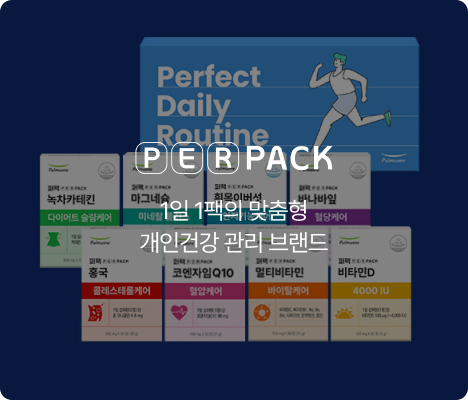
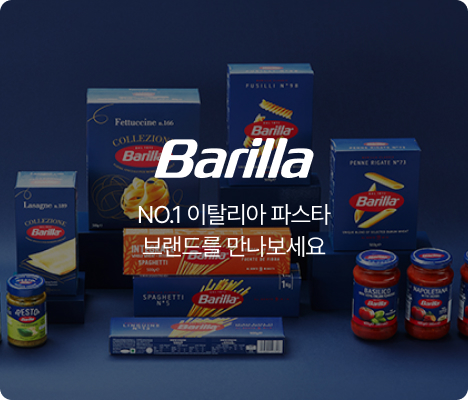
Center four brand hero captions and swap Barilla and PERPACK image assets

diff --git a/shoppulmuone/brand.html b/shoppulmuone/brand.html
@@ -1,4 +1,4 @@
-<!DOCTYPE html><html lang="ko"><head><meta charset="UTF-8"><meta name="viewport" content="width=device-width, initial-scale=1.0"><title>브랜드 | 샵풀무원 리뉴얼</title><link rel="stylesheet" href="../css/default.css"><link rel="stylesheet" href="../font/css/pretendardvariable.css"><link rel="stylesheet" href="css/variables.css"><link rel="stylesheet" href="css/main.css?v=20261126-css-header-hover"><link rel="stylesheet" href="css/brand.css?v=20261126-logo-align"><script src="js/category-links.js?v=3" defer></script><script src="js/scroll-header.js?v=20261126-css-header-hover" defer></script>
+<!DOCTYPE html><html lang="ko"><head><meta charset="UTF-8"><meta name="viewport" content="width=device-width, initial-scale=1.0"><title>브랜드 | 샵풀무원 리뉴얼</title><link rel="stylesheet" href="../css/default.css"><link rel="stylesheet" href="../font/css/pretendardvariable.css"><link rel="stylesheet" href="css/variables.css"><link rel="stylesheet" href="css/main.css?v=20261126-css-header-hover"><link rel="stylesheet" href="css/brand.css?v=20261126-copy-center"><script src="js/category-links.js?v=3" defer></script><script src="js/scroll-header.js?v=20261126-css-header-hover" defer></script>
 
 <script src="js/brand.js?v=20261126-logo-align" defer></script></head><body><div id="wrap"><header class="site-header">
             <div class="header-inner">
@@ -90,12 +90,12 @@
                 <li class="brand-gallery-card"><a href="brand.html?brand=6" aria-label="풀스키친 브랜드 보기"><img src="img/pulmuonebrand_6.jpg" alt="풀스키친" width="468" height="400" decoding="async"></a></li>
                 <li class="brand-gallery-card"><a href="brand.html?brand=7" aria-label="풀스키즈 브랜드 보기"><img src="img/pulmuonebrand_7.jpg" alt="풀스키즈" width="468" height="400" decoding="async"></a></li>
                 <li class="brand-gallery-card"><a href="brand.html?brand=8" aria-label="풀스쿡 브랜드 보기"><img src="img/pulmuonebrand_8.jpg" alt="풀스쿡" width="468" height="400" decoding="async"></a></li>
-                <li class="brand-gallery-card"><a href="brand.html?brand=9" aria-label="퍼팩 브랜드 보기"><img src="img/pulmuonebrand_9.jpg" alt="퍼팩" width="468" height="400" loading="lazy" decoding="async"></a></li>
+                <li class="brand-gallery-card"><a href="brand.html?brand=9" aria-label="퍼팩 브랜드 보기"><img src="img/pulmuonebrand_9.jpg?v=20261126-swap" alt="퍼팩" width="468" height="400" loading="lazy" decoding="async"></a></li>
                 <li class="brand-gallery-card"><a href="brand.html?brand=10" aria-label="풀무원샘물 브랜드 보기"><img src="img/pulmuonebrand_10.jpg" alt="풀무원샘물" width="468" height="400" loading="lazy" decoding="async"></a></li>
                 <li class="brand-gallery-card"><a href="brand.html?brand=11" aria-label="풀무원아미오 브랜드 보기"><img src="img/pulmuonebrand_11.jpg" alt="풀무원아미오" width="468" height="400" loading="lazy" decoding="async"></a></li>
                 <li class="brand-gallery-card"><a href="brand.html?brand=12" aria-label="풀무원녹즙 브랜드 보기"><img src="img/pulmuonebrand_12.jpg" alt="풀무원녹즙" width="468" height="400" loading="lazy" decoding="async"></a></li>
                 <li class="brand-gallery-card"><a href="brand.html?brand=13" aria-label="디자인밀 브랜드 보기"><img src="img/pulmuonebrand_13.jpg" alt="디자인밀" width="468" height="400" loading="lazy" decoding="async"></a></li>
-                <li class="brand-gallery-card"><a href="brand.html?brand=14" aria-label="바릴라 브랜드 보기"><img src="img/pulmuonebrand_14.jpg" alt="바릴라" width="468" height="400" loading="lazy" decoding="async"></a></li>
+                <li class="brand-gallery-card"><a href="brand.html?brand=14" aria-label="바릴라 브랜드 보기"><img src="img/pulmuonebrand_14.jpg?v=20261126-swap" alt="바릴라" width="468" height="400" loading="lazy" decoding="async"></a></li>
                 <li class="brand-gallery-card"><a href="brand.html?brand=15" aria-label="풀무원로하스 브랜드 보기"><img src="img/pulmuonebrand_15.jpg" alt="풀무원로하스" width="468" height="400" loading="lazy" decoding="async"></a></li>
                 <li class="brand-gallery-card"><a href="brand.html?brand=16" aria-label="풀무원건강식물원 브랜드 보기"><img src="img/pulmuonebrand_16.jpg" alt="풀무원건강식물원" width="468" height="400" loading="lazy" decoding="async"></a></li>
             </ul>

diff --git a/shoppulmuone/css/brand.css b/shoppulmuone/css/brand.css
@@ -77,3 +77,15 @@
 /* Align visible logo artwork with the text, not the PNG canvas. */
 .brand-detail-copy img{display:block;flex:none;width:auto;height:auto;max-width:clamp(88px,8vw,154px);max-height:clamp(52px,5vw,96px);object-fit:contain;object-position:left center}
 @media(min-width:768px){.brand-detail-hero[data-brand="4"] .brand-detail-copy{margin-left:75%;width:22%;}}
+
+/* Center each copy group within the clear right-hand area, keeping its internal left alignment. */
+@media(min-width:768px){
+.brand-detail-hero[data-brand="6"] .brand-detail-copy,
+.brand-detail-hero[data-brand="10"] .brand-detail-copy,
+.brand-detail-hero[data-brand="11"] .brand-detail-copy,
+.brand-detail-hero[data-brand="13"] .brand-detail-copy{margin-left:0;width:max-content;max-width:24%;position:relative;left:var(--brand-copy-center,84%);transform:translateX(-50%);}
+.brand-detail-hero[data-brand="6"]{--brand-copy-center:85%}
+.brand-detail-hero[data-brand="10"]{--brand-copy-center:82%}
+.brand-detail-hero[data-brand="11"]{--brand-copy-center:83%}
+.brand-detail-hero[data-brand="13"]{--brand-copy-center:84%}
+}
